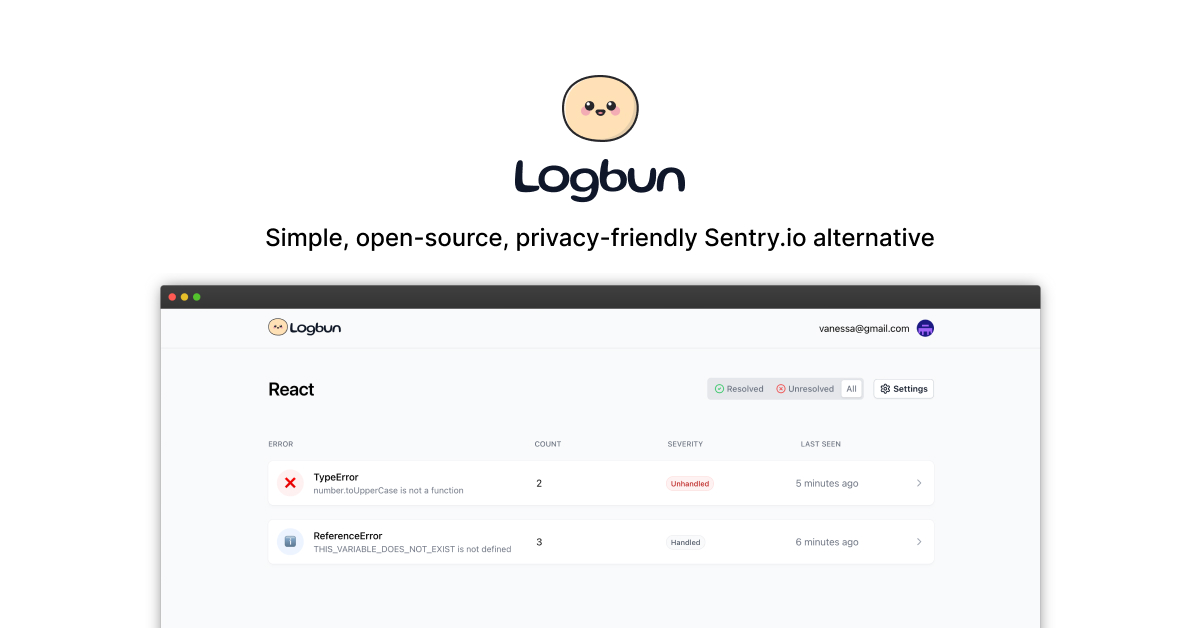
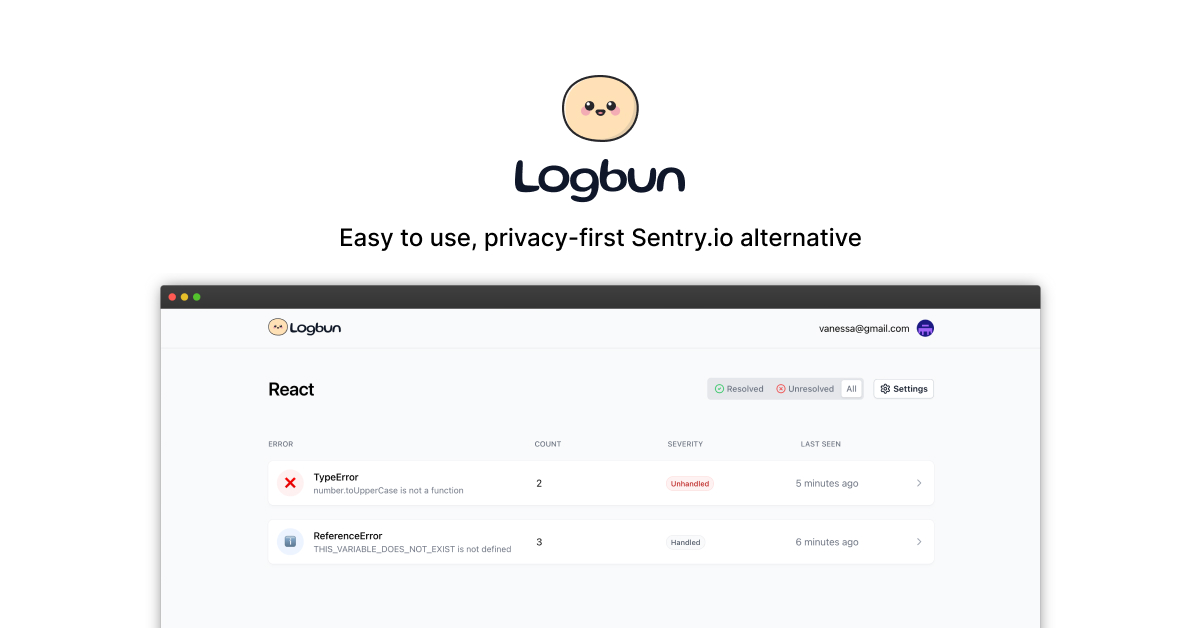
update product description

Changed region(s): [[0.2158, 0.3631, 0.8017, 0.3933]]

diff --git a/apps/www/components/hero.tsx b/apps/www/components/hero.tsx
@@ -27,14 +27,11 @@ export default function Hero() {
       <div className="px-6 mx-auto max-w-7xl lg:px-8">
         <div className="mx-auto text-center" style={{ maxWidth: '50rem' }}>
           <h1 className="text-4xl font-bold tracking-tight sm:text-6xl">
-            Simple, open-source, privacy-first <span style={{ color: '#e3af0e' }}>Sentry.io alternative</span>
+            Easy to use, privacy-first <span style={{ color: '#e3af0e' }}>Sentry.io alternative</span>
           </h1>
 
           <p className="mt-6 text-xl leading-8 text-gray-500">
-            <span className="inline lg:block">
-              GDPR & CCPA compliant lightweight error tracking built for{' '}
-              <span className="font-semibold text-gray-900">Founders</span>.
-            </span>
+            <span className="inline lg:block">Fully open-source GDPR & CCPA compliant lightweight error tracking.</span>
             <span className="inline lg:block">
               {' '}
               No cookies or tracking users IP. Hosted in the{' '}

diff --git a/packages/utils/config.ts b/packages/utils/config.ts
@@ -1,8 +1,8 @@
 export const site = {
   title: 'Logbun',
   url: 'https://logbun.com',
-  tagline: 'Simple, 100% open-source, privacy-first Sentry.io alternative',
-  description: 'Logbun is a simple, 100% open-source, privacy-first Sentry.io alternative built for founders.',
+  tagline: 'Easy to use, privacy-first error tracking.',
+  description: 'Logbun is an easy to use, privacy-first,fully open-source Sentry.io alternative.',
   docs: 'https://logbun.site/docs',
   discord: 'https://logbun.site/discord',
   twitter: 'https://logbun.site/twitter',

diff --git a/README.md b/README.md
@@ -1,5 +1,3 @@
-<!-- # Logbun -->
-
 ## 🚧 This project is work in progress.
 
 <p align="center">
@@ -9,7 +7,7 @@
 </p>
 <p align="center" style="margin-top: 20px">
   <p align="center">
-  Simple, Open Source, Privacy-Friendly JavaScript Error Tracking.
+  Easy To Use, Privacy-Friendly Error Tracking.
   <br>
     <a href="https://logbun.com"><strong>Learn more »</strong></a>
     <br />
@@ -24,7 +22,7 @@
   </p>
 </p>
 
-[Logbun](https://logbun.com/) is your go-to solution for **Simple**, **100% Open Source**, **Privacy-Friendly** javascript error tracking tailored for **SaaS founders** who ship fast🔥.
+[Logbun](https://logbun.com/) is your go-to solution for **Easy To Use**, **100% Open Source**, **Privacy-Friendly** error tracking built by developers for developers.
 
 We want you to ship fast, fail fast, and catch errors fast without compromising user data. Therefore, we ensure our error tracking remains simple, transparent, efficient, and secure.
 
@@ -36,13 +34,13 @@ No need for cookie banners. Managed and hosted in the EU 🇪🇺
 
 Here's what sets Logbun apart as the ideal JavaScript error tracking platform for SaaS founders:
 
-- **Simplicity at its Core**: Logbun offers straightforward error tracking for SaaS applications. No complex setups or convoluted reports. Get actionable insights without the hassle.
+- **Simplicity at its core**: Logbun offers straightforward error tracking for SaaS applications. No complex setups or convoluted reports. Get actionable insights without the hassle.
 
 - **Open Source**: Logbun is fully open source, unlike many other error tracking software that claim to be open source but only share a small part of their codebase. We are fully transparent and share 100% of all our code.
 
 - **Privacy-Focused**: We prioritize user privacy. We don't collect things like IP addresses and other unnecessary data, no invasive practices. Compliant with privacy regulations, Logbun keeps your users' data confidential.
 
-- **Self host**: You can download the code and host it yourself.
+- **Self host**: You can download the code and host it yourself. Instructions coming soon...
 
 ## Tech Stack
 
